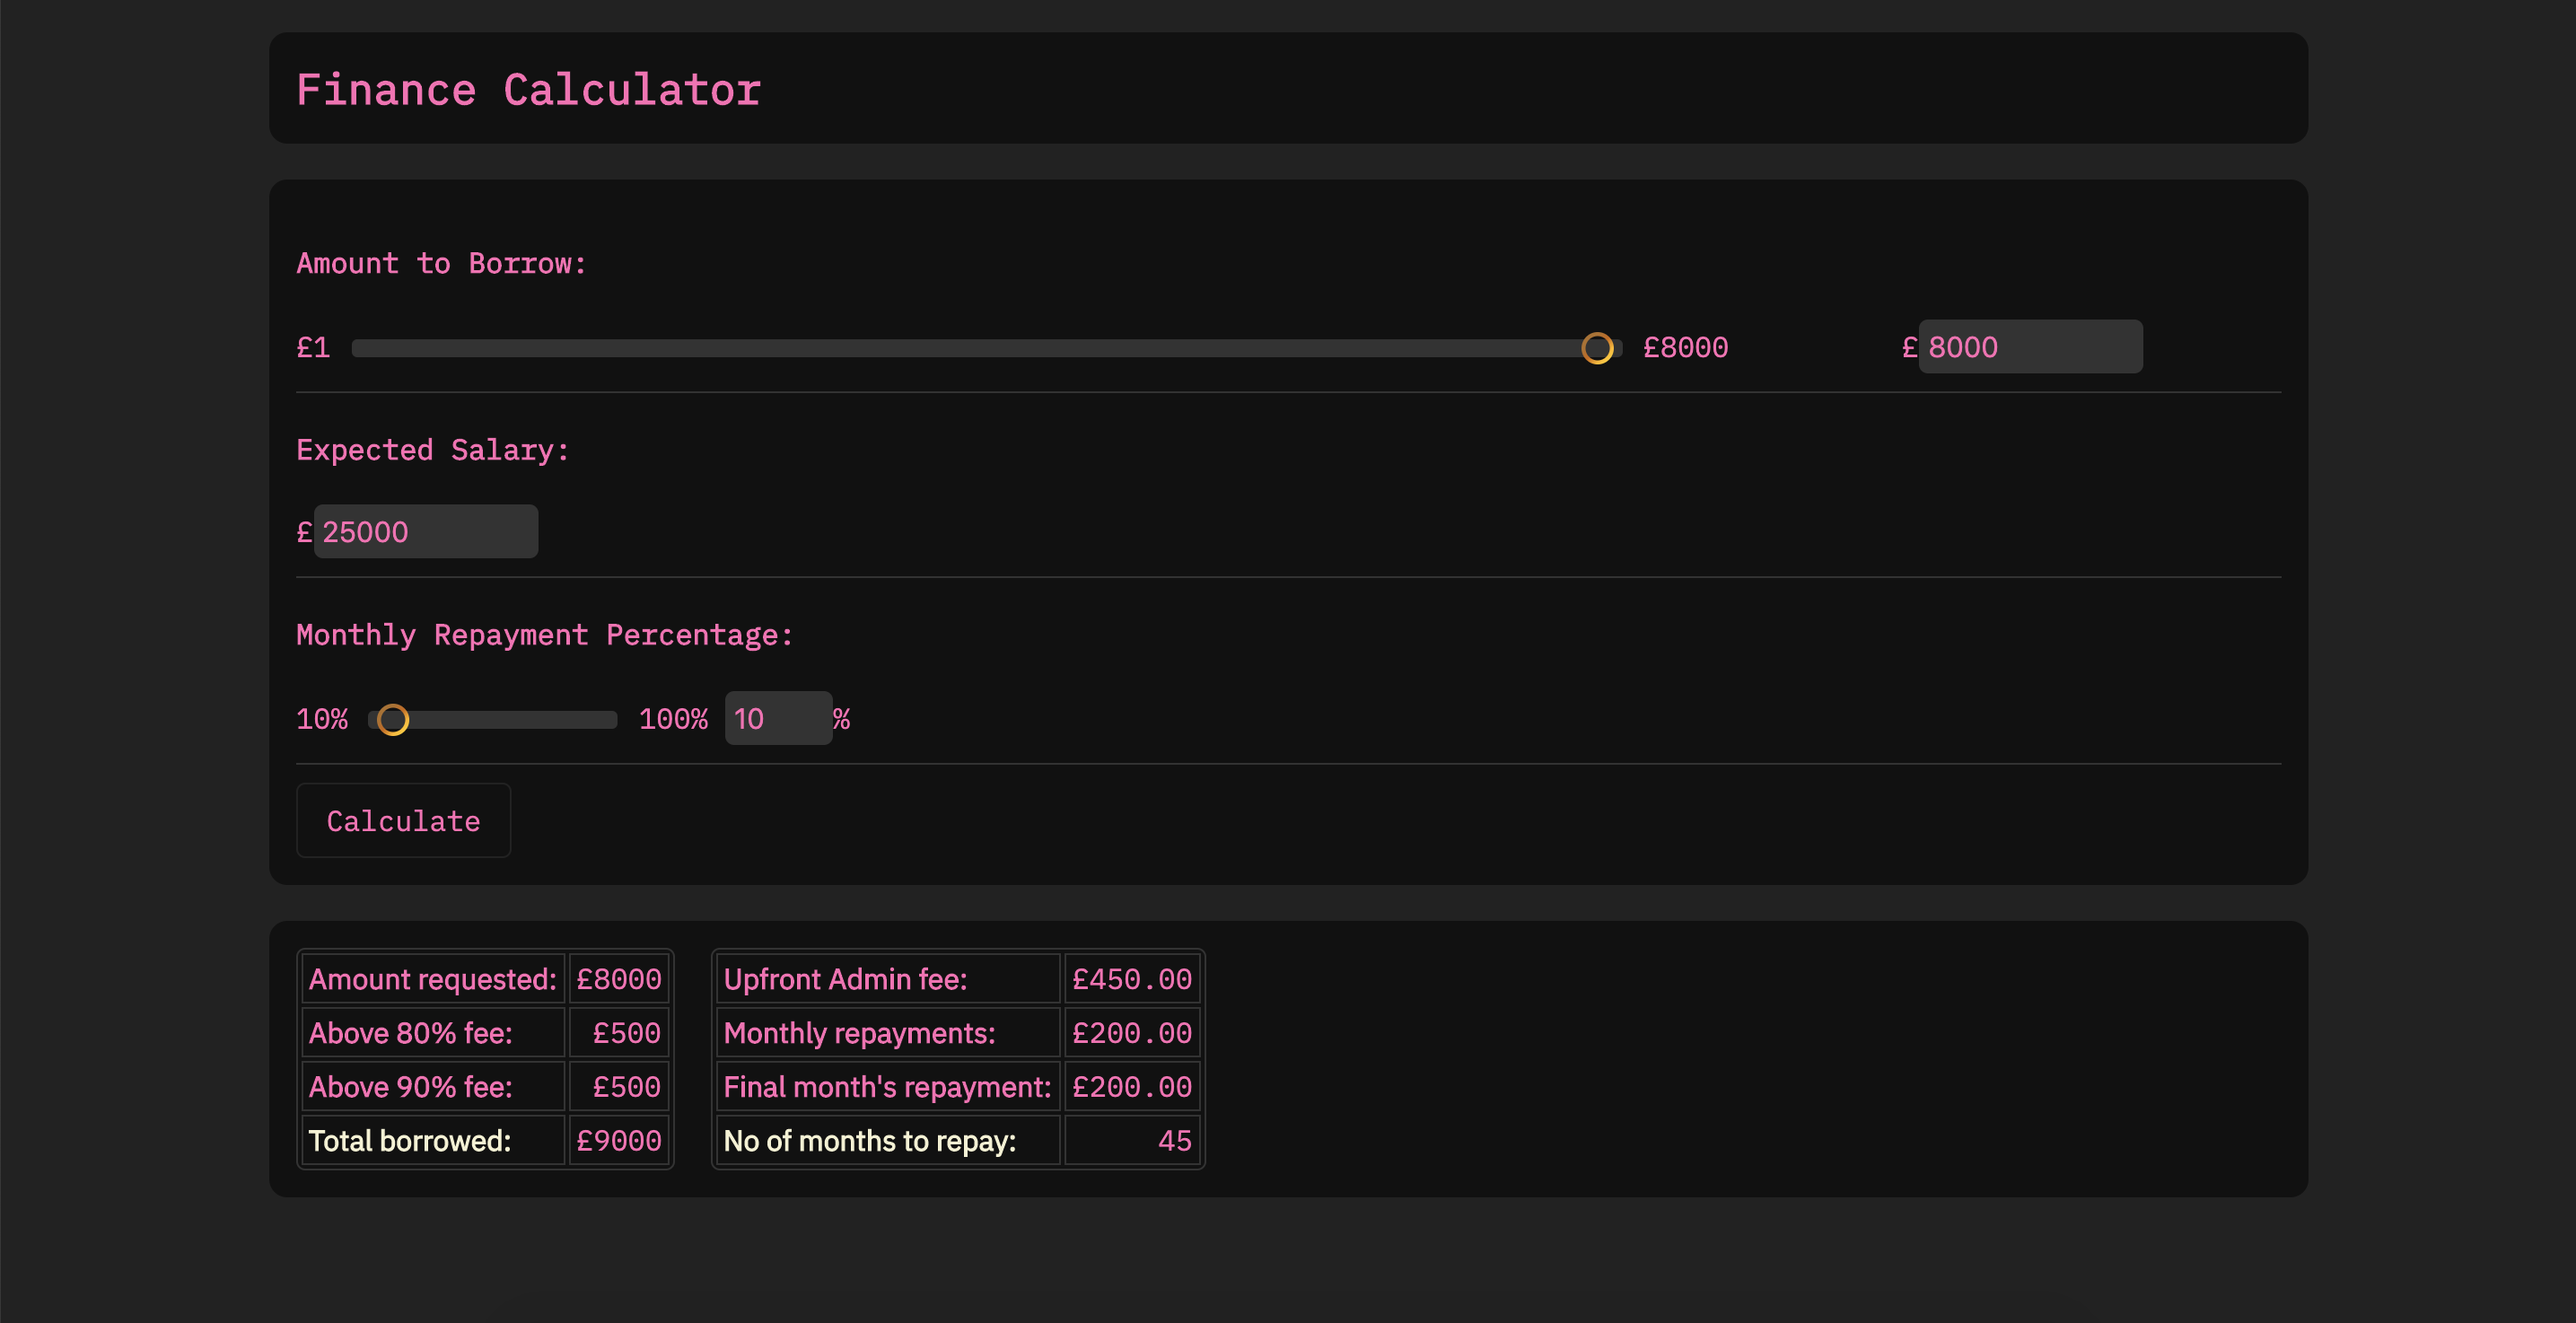
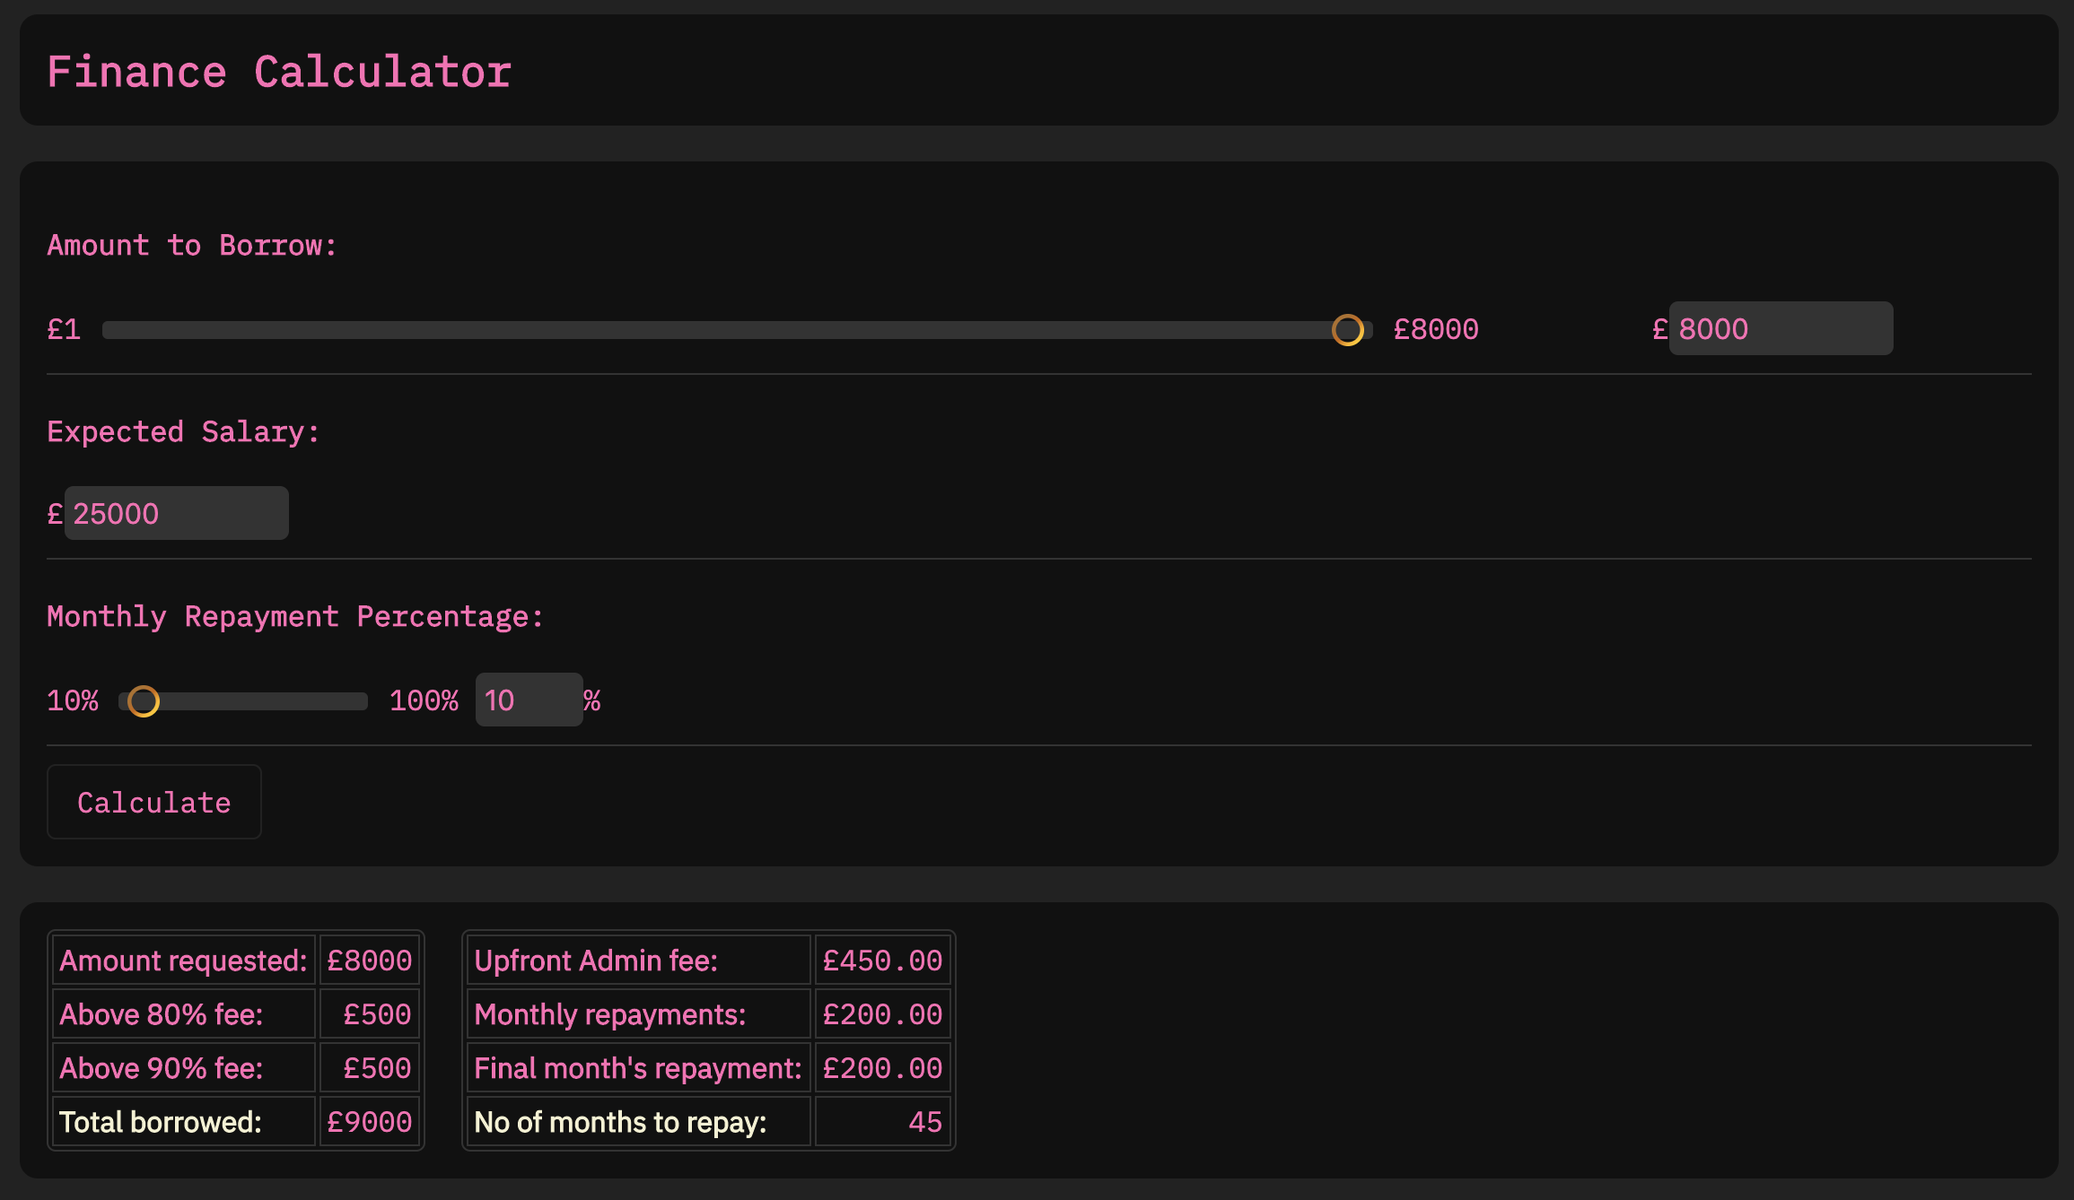
cropped bg image and added IE 11 message

diff --git a/script.js b/script.js
@@ -28,6 +28,10 @@ if (msieFlag == 1) {
    let msieLi2 = document.createElement('li')
     msieLi2.textContent=msieMessage
     msieLi2.style.color='#FF0000'
+    let msieLi3 = document.createElement('li')
+    msieLi3.textContent=msieMessage
+    msieLi3.style.color='#FF0000'
    document.querySelector('.projectBox.clock ul').appendChild(msieLi)
    document.querySelector('.projectBox.pairsGame ul').appendChild(msieLi2)
+   document.querySelector('.projectBox.financeCalculator ul').appendChild(msieLi3)
 }

diff --git a/styles.css b/styles.css
@@ -156,6 +156,12 @@ h2 {
 	margin: 0 auto;
 }
 
+.projectBox.financeCalculator {
+	background-image: url('images/financeCalculator.png');
+	background-position: left;
+	background-size: cover;
+}
+
 .projectBoxBottom {
 	position: absolute;
 	bottom: 0;
